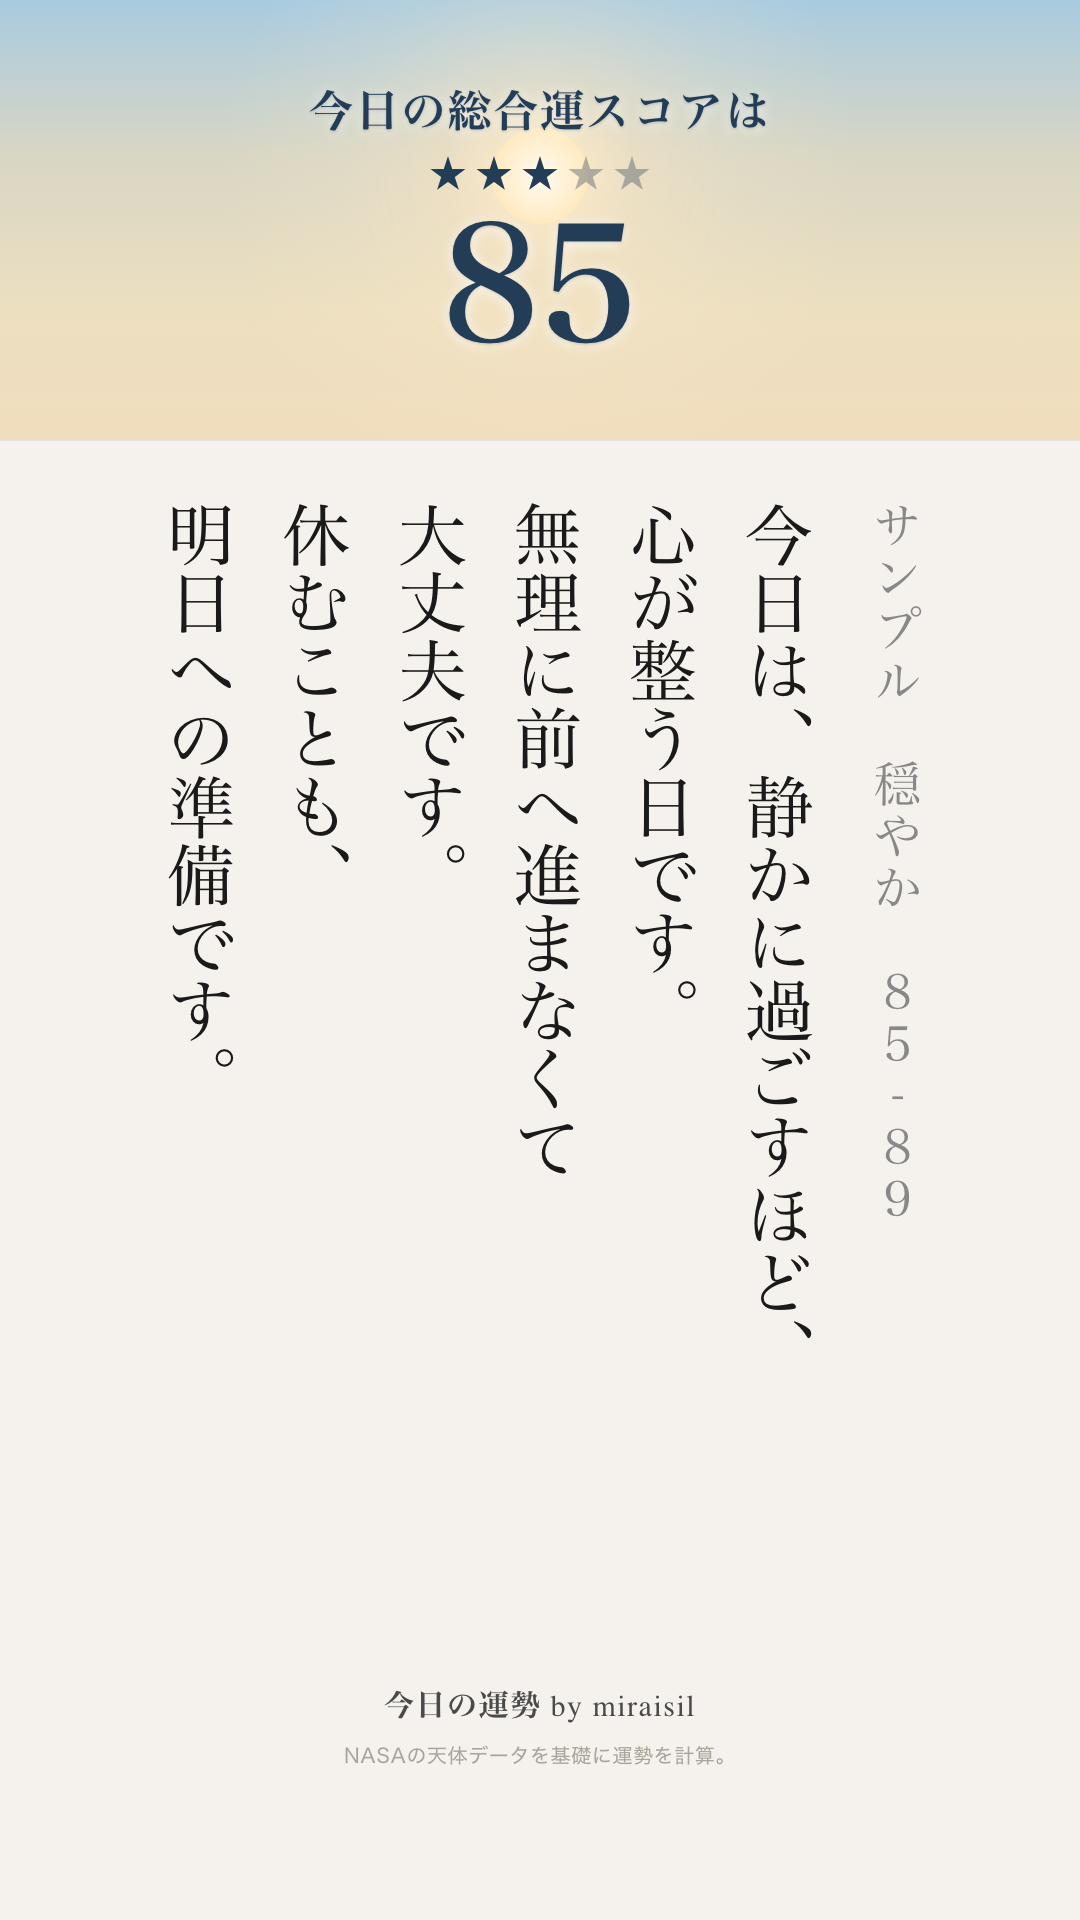
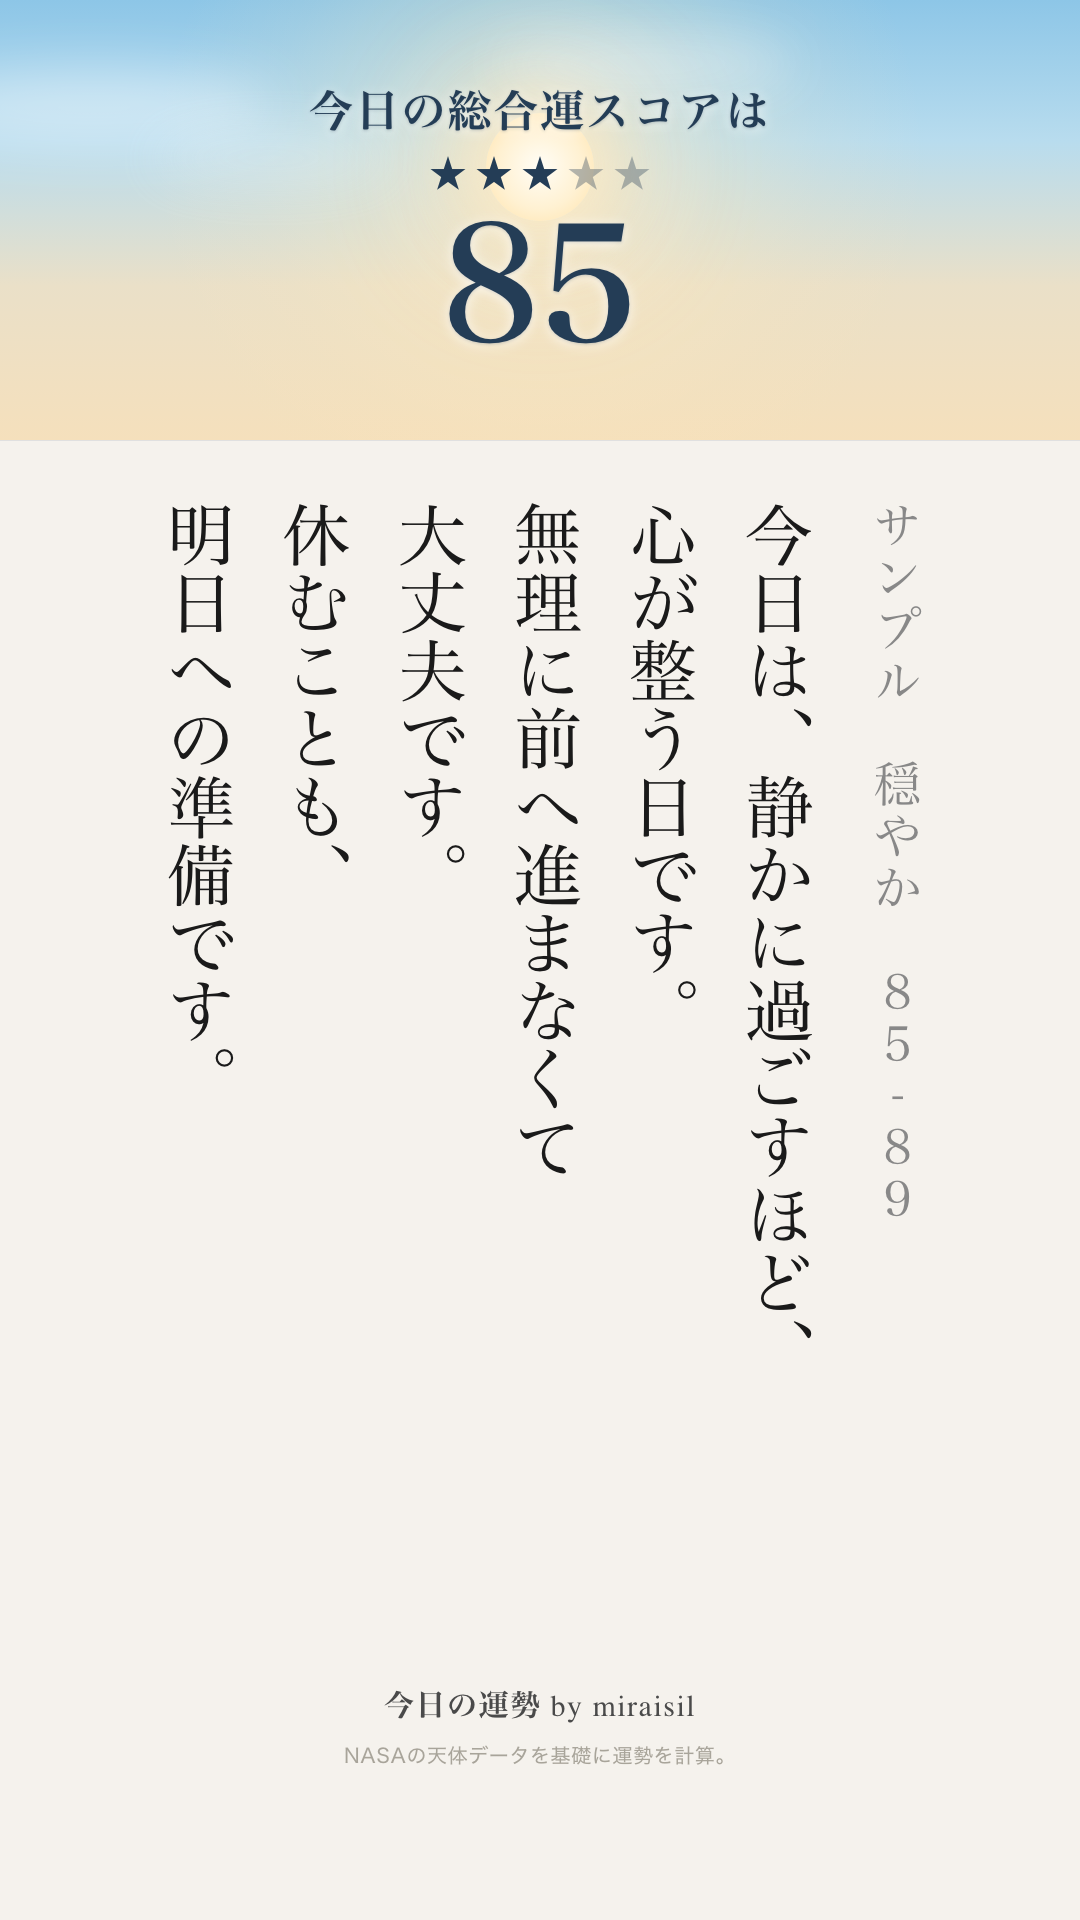
richen the 85 sky-scene tier so it doesn't wash out next to 96/77
85 previously read as flat/pale and lost presence between the vivid
96 and warm 77. Boosts sky-blue saturation, gives the sun a soft
fluffy halo, and layers in faint cloud wisps for depth.

Changed region(s): [[0.0, 0.0, 0.3667, 0.125], [0.6722, 0.0, 1.0, 0.125]]

diff --git a/sky-test/index.html b/sky-test/index.html
@@ -41,17 +41,24 @@
 "空の絵"にすることで解決する。色帯＝空、下のベージュ本文＝地面、境目＝地平線と捉え、
 空は「上空＝青、地平寄り＝暖色」の縦グラデを基本にした。太陽（円＋グロー）を1つ置き、
 その高さと輝きをスコアに連動させる: 96は澄んだ青空高くで白熱（光芒＋きらめき5個）、
-85は青空の上寄りに穏やかな太陽（光芒なし）、77は太陽が地平近くまで下がり上空は
-青のまま地平だけ金色に染まるゴールデンアワー、66は太陽が地平線ぎりぎり（大半が
-隠れる）で空は暖色の深い夕闇、地平にだけ残照が残る（真っ黒・紫にはしない）。<br>
+77は太陽が地平近くまで下がり上空は青のまま地平だけ金色に染まるゴールデンアワー、
+66は太陽が地平線ぎりぎり（大半が隠れる）で空は暖色の深い夕闇、地平にだけ残照が
+残る（真っ黒・紫にはしない）。<br>
 文字色は空の明暗に応じて調整: 96・85は濃紺、77は濃い金茶、66は淡い生成り。<br>
 背景グラデーションの色相は青(200-205°)→warm-neutral(37-60°、低彩度で緑を経由
 しない)→暖色(16-32°)の範囲のみで構成し、紫域・真っ黒は使用していません。<br>
 まずこの4枚（96/85/77/66）のみの実装です。7段階への正式展開は承認後に進めます。
 </div>
+<div class="note">
+【85を追加改善】指摘: 85が淡く洗い流されたような薄い空で、太陽も光芒なしで存在感が
+弱く、96と77に挟まれると"色あせて何もない"印象だった。→ 上空の青をより澄んで豊かな
+スカイブルーに（彩度47%→65%）、太陽にふんわり大きめのハローを追加して「陽が射して
+いる」存在感を出し、極薄の雲を3枚重ねて奥行きを足した（一色べったりのグラデを回避）。
+77より地味に見えないか、"気持ちのいい快晴"に見えるかを確認してください。
+</div>
 <div class="row">
   <figure><img src="scene_96.png"><figcaption>96点 昼の絶頂 95-100 ★5<br>太陽：高い位置・強い光芒</figcaption></figure>
-  <figure><img src="scene_85.png"><figcaption>85点 穏やか 85-89 ★3<br>太陽：上寄り・光芒なし</figcaption></figure>
+  <figure><img src="scene_85.png"><figcaption>85点 気持ちのいい快晴 85-89 ★3<br>太陽：ふんわりハロー・薄雲3枚（今回改善）</figcaption></figure>
   <figure><img src="scene_77.png"><figcaption>77点 ゴールデンアワー 75-79 ★2<br>太陽：地平近く・上空は青のまま</figcaption></figure>
   <figure><img src="scene_66.png"><figcaption>66点 沈んだ直後 65-69 ★1<br>太陽：地平線ぎりぎり・残照のみ</figcaption></figure>
 </div>
